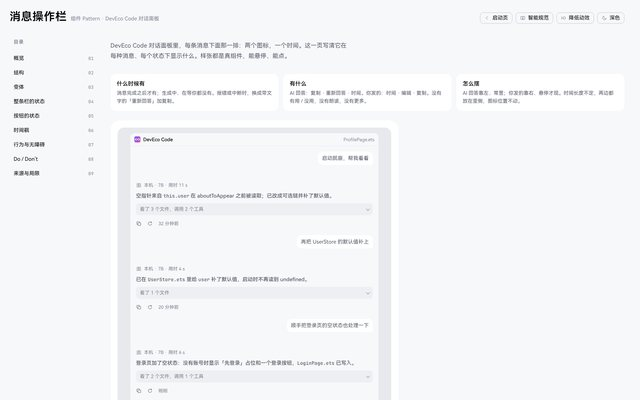
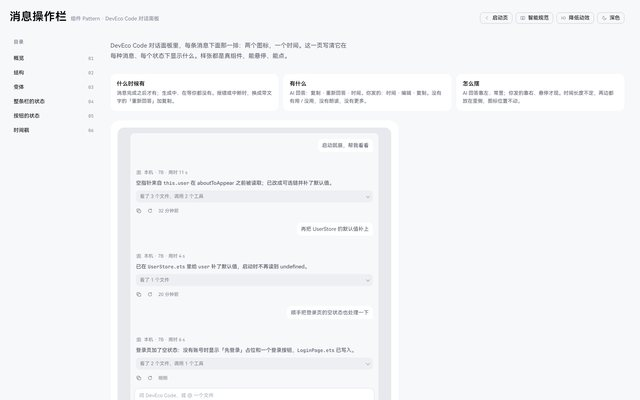
消息操作栏：样张去掉工具窗标题栏（DevEco Code · 文件名），只留对话；重截启动页缩略图，缩略图与脚本版本号 → 20261008e

diff --git a/deveco-intui-kit/dist/message-actions.html b/deveco-intui-kit/dist/message-actions.html
@@ -934,10 +934,6 @@ div.fa{display:block}
 
 /* 切片：工具窗 */
 .x-tw{border-radius:10px;overflow:visible;background:var(--ui-bg);display:flex;flex-direction:column}
-.x-twh{display:flex;align-items:center;gap:7px;height:32px;padding:0 10px;font-size:12px;border-bottom:1px solid var(--ui-border);border-radius:10px 10px 0 0}
-.x-twh b{font-weight:500}
-.x-twh .grow{flex:1}
-.x-twh svg.x-lg{width:15px;height:15px}
 .x-twb{padding:12px 14px;display:flex;flex-direction:column;gap:14px;min-width:0}
 .x-twf{padding:0 10px 10px}
 .x-dim{color:var(--ui-fg-info);font-size:11.5px}
@@ -1212,7 +1208,8 @@ div.fa{display:block}
     return '<div class="ai-answer ai-answer--plain'+(o.cls?' '+o.cls:'')+'">'+meta+(o.body||lead+det)+(o.extra||'')+bar+'</div>'}
   function UM(t,o){o=o||{};return '<div class="ai-umsg'+(o.shown?' is-shown':'')+'"><div class="ai-umsg__bubble"><p>'+t+'</p></div>'+(o.nobar?'':BAR(Object.assign({kind:'user'},o.bar||{})))+'</div>'}
   function P(o){o=o||{};
-    return '<div class="x-tw">'+(o.nohead?'':'<div class="x-twh">'+U('ai-logo-16','x-lg')+'<b>'+(o.title||'DevEco Code')+'</b><span class="grow"></span>'+(o.hr!=null?o.hr:'<span class="x-dim">ProfilePage.ets</span>')+'</div>')+
+    /* 样张只放对话本身：不画工具窗标题栏 */
+    return '<div class="x-tw">'+
       (o.body?'<div class="x-twb">'+o.body+'</div>':'')+(o.field?'<div class="x-twf">'+o.field+'</div>':'')+'</div>'}
   function FLD(st){
     var gen=st==='generating';

diff --git a/deveco-intui-kit/docs/message-actions.html b/deveco-intui-kit/docs/message-actions.html
@@ -155,10 +155,6 @@ div.fa{display:block}
 
 /* 切片：工具窗 */
 .x-tw{border-radius:10px;overflow:visible;background:var(--ui-bg);display:flex;flex-direction:column}
-.x-twh{display:flex;align-items:center;gap:7px;height:32px;padding:0 10px;font-size:12px;border-bottom:1px solid var(--ui-border);border-radius:10px 10px 0 0}
-.x-twh b{font-weight:500}
-.x-twh .grow{flex:1}
-.x-twh svg.x-lg{width:15px;height:15px}
 .x-twb{padding:12px 14px;display:flex;flex-direction:column;gap:14px;min-width:0}
 .x-twf{padding:0 10px 10px}
 .x-dim{color:var(--ui-fg-info);font-size:11.5px}
@@ -433,7 +429,8 @@ div.fa{display:block}
     return '<div class="ai-answer ai-answer--plain'+(o.cls?' '+o.cls:'')+'">'+meta+(o.body||lead+det)+(o.extra||'')+bar+'</div>'}
   function UM(t,o){o=o||{};return '<div class="ai-umsg'+(o.shown?' is-shown':'')+'"><div class="ai-umsg__bubble"><p>'+t+'</p></div>'+(o.nobar?'':BAR(Object.assign({kind:'user'},o.bar||{})))+'</div>'}
   function P(o){o=o||{};
-    return '<div class="x-tw">'+(o.nohead?'':'<div class="x-twh">'+U('ai-logo-16','x-lg')+'<b>'+(o.title||'DevEco Code')+'</b><span class="grow"></span>'+(o.hr!=null?o.hr:'<span class="x-dim">ProfilePage.ets</span>')+'</div>')+
+    /* 样张只放对话本身：不画工具窗标题栏 */
+    return '<div class="x-tw">'+
       (o.body?'<div class="x-twb">'+o.body+'</div>':'')+(o.field?'<div class="x-twf">'+o.field+'</div>':'')+'</div>'}
   function FLD(st){
     var gen=st==='generating';

diff --git a/site/catalog.js b/site/catalog.js
@@ -346,7 +346,7 @@ window.DEVECO_CATALOG = {
           desc: 'DevEco Code 对话面板里每条消息下面那一排。AI 回答：复制 · 重新回答 · 时间，靠左常显；你发的：时间 · 编辑 · 复制，靠右悬停才现；报错时换成带文字的「重新回答」。结构、两种变体、六个状态、按钮状态、时间戳规则；样张都是真组件，能悬停能点。',
           view: 'ready', date: '2026-10-08', href: 'deveco-intui-kit/docs/message-actions.html',
           links: [{ label: '单文件版', href: 'deveco-intui-kit/dist/message-actions.html' }, { label: '回答卡（智能规范 08）', href: 'deveco-intui-kit/docs/ai-system.html#components' }, { label: 'ai.css', href: 'deveco-intui-kit/src/ai.css' }],
-          tags: ['组件状态', '消息操作栏', 'Pattern'], thumb: { type: 'image', src: 'site/thumbs/message-actions.jpg' },
+          tags: ['组件状态', '消息操作栏', 'Pattern'], thumb: { type: 'image', src: 'site/thumbs/message-actions.jpg?v=20261008e' },
         },
         {
           title: 'Kit 使用说明', subtitle: 'deveco-intui-kit · README',

diff --git a/index.html b/index.html
@@ -66,7 +66,7 @@
   </footer>
 </div>
 
-<script src="site/catalog.js?v=20261008d"></script>
-<script src="site/launcher.js?v=20261008d"></script>
+<script src="site/catalog.js?v=20261008e"></script>
+<script src="site/launcher.js?v=20261008e"></script>
 </body>
 </html>
